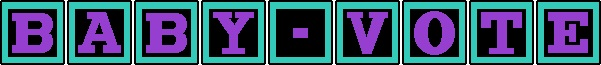
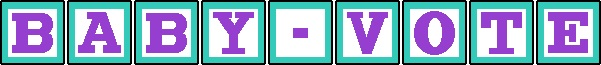
Pulled in the header and font colors from daniel's work Working on top 10 list now

diff --git a/coming.html b/coming.html
@@ -14,11 +14,11 @@
 </header>
 
 <nav>
-<a href="./index.php"><strong>Home</strong></a> | 
-<a href="./submit.html"><strong>Submit Baby Pictures</strong></a> |
-<a href="./coming.html"><strong>Beautiful Babies</strong></a> |
-<a href="./coming.html"><strong>Baby Products</strong></a> |
-<a href="./coming.html"><strong>About Baby Vote</strong></a>
+<a href="./index.php"><strong><span>Home</span></strong></a> | 
+<a href="./submit.html"><strong><span>Submit Baby Pictures</span></strong></a> |
+<a href="./coming.html"><strong><span>Beautiful Babies</span></strong></a> |
+<a href="./coming.html"><strong><span>Baby Products</span></strong></a> |
+<a href="./coming.html"><strong><span>About Baby Vote</span></strong></a>
 </nav>
 
 <!-- Content Begins Here -->

diff --git a/submit.html b/submit.html
@@ -18,11 +18,11 @@
 </header>
 
 <nav>
-<a href="./index.php"><strong>Home</strong></a> | 
-<a href="./submit.html"><strong>Submit Baby Pictures</strong></a> |
-<a href="./coming.html"><strong>Beautiful Babies</strong></a> |
-<a href="./coming.html"><strong>Baby Products</strong></a> |
-<a href="./coming.html"><strong>About Baby Vote</strong></a>
+<a href="./index.php"><strong><span>Home</span></strong></a> | 
+<a href="./submit.html"><strong><span>Submit Baby Pictures</span></strong></a> |
+<a href="./coming.html"><strong><span>Beautiful Babies</span></strong></a> |
+<a href="./coming.html"><strong><span>Baby Products</span></strong></a> |
+<a href="./coming.html"><strong><span>About Baby Vote</span></strong></a>
 </nav>
 
 

diff --git a/style.css b/style.css
@@ -24,6 +24,10 @@ nav a{
     color: rgb(52,202,186);
 }
 
+nav a span{
+    color: #953ED0;
+}
+
 section.content{
     margin: 0px auto;
     width: 940px;

diff --git a/beautiful.php b/beautiful.php
@@ -6,72 +6,7 @@
     <META name="keywords" content="baby,baby war,babies,best,cute,cutest,cuter,choose,cute baby,cute babies,smiling babies,smiling baby,happy baby" />
     <title>Baby War - Vote for the cutest baby!</title>
     <link rel="stylesheet" type="text/css" href="style.css" charset="utf-8"/>
-    
-    <script type=text/javascript>
 
-function voted(event){
-
-    // Ajax stuff
-	var ajaxRequest = new XMLHttpRequest;  // The variable that makes Ajax possible!
-	
-	ajaxRequest.onreadystatechange = function(){
-	    if(ajaxRequest.readyState == 4){
-	    	//document.getElementById('winner').appendChild(ajaxRequest.responseText);
-	    	var response = ajaxRequest.responseText;
-	    	
-	    	// Get everything
-	    	var img1 = response.split("@@")[0];
-	    	var img2 = response.split("@@")[1];
-	    	var w_vote_count = response.split("@@")[2];
-	    	var w_election_count = response.split("@@")[3];
-	    	var l_vote_count = response.split("@@")[4];
-	    	var l_election_count = response.split("@@")[5];
-	    	
-	    	// Set new images for election
-	    	document.getElementById('img1').src = "./pics/" + img1;
-	    	document.getElementById('img2').src = "./pics/" + img2;
-	    	
-	    	// Set winner
-	    	document.getElementById('winner_votes').innerHTML = "Votes : " + w_vote_count;
-	    	var percent = Math.round((w_vote_count / w_election_count) * 100);
-	    	document.getElementById('winner_percent').innerHTML = "Win Rate : " + percent + "%";
-	    	
-	    	// Set loser
-	    	document.getElementById('loser_votes').innerHTML = "Votes : " + l_vote_count;
-	    	var percent = Math.round((l_vote_count / l_election_count) * 100);
-	    	document.getElementById('loser_percent').innerHTML = "Win Rate : " + percent + "%";
-	    }
-    }	
-	
-	// Winner
-	// Just some regex no big deal really
-	var pathExtract = /^[a-z]+:\/\/\/?[^\/]+(\/[^?]*)/i;
-	var winner = (pathExtract.exec(event.target.src))[1].slice(1);
-	
-	// Loser
-	if (event.target.id === 'img1')	{ var loser_id = 'img2'; }
-	else { var loser_id = 'img1'; }
-	var loser = document.getElementById(loser_id).src
-	loser = pathExtract.exec(loser)[1].slice(1);
-	
-	// Set winner / loser source and href
-    document.getElementById('winner').src = winner;
-    document.getElementById('loser').src = loser;
-    
-	var id1 = winner.match(/(\d+)$/)[1];
-    var id2 = loser.match(/(\d+)$/)[1];
-    
-	document.getElementById('link1').href = "http://baby-war.99k.org/individual.php?id=" + id1
-    document.getElementById('link2').href = "http://baby-war.99k.org/individual.php?id=" + id2
-    
-    
-    // Probably not the best solution dawg
-	var query = "?winner=" + winner.split("/")[1] + "&loser=" + loser.split("/")[1];
-	ajaxRequest.open("GET", "vote.php" + query, true);
-	ajaxRequest.send(null);
-
-}
-    </script>  
 </head>
 
 <!-- Head ends / Body begins -->

diff --git a/individual.php b/individual.php
@@ -14,11 +14,11 @@
 </header>
 
 <nav>
-<a href="./index.php"><strong>Home</strong></a> | 
-<a href="./submit.html"><strong>Submit Baby Pictures</strong></a> |
-<a href="./coming.html"><strong>Beautiful Babies</strong></a> |
-<a href="./coming.html"><strong>Baby Products</strong></a> |
-<a href="./coming.html"><strong>About Baby Vote</strong></a>
+<a href="./index.php"><strong><span>Home</span></strong></a> | 
+<a href="./submit.html"><strong><span>Submit Baby Pictures</span></strong></a> |
+<a href="./coming.html"><strong><span>Beautiful Babies</span></strong></a> |
+<a href="./coming.html"><strong><span>Baby Products</span></strong></a> |
+<a href="./coming.html"><strong><span>About Baby Vote</span></strong></a>
 </nav>
 
 <!-- Content Begins Here -->

diff --git a/submit_image.php b/submit_image.php
@@ -11,11 +11,11 @@
 </header>
 
 <nav>
-<a href="./index.php"><strong>Home</strong></a> | 
-<a href="./submit.html"><strong>Submit Baby Pictures</strong></a> |
-<a href="./coming.html"><strong>Beautiful Babies</strong></a> |
-<a href="./coming.html"><strong>Baby Products</strong></a> |
-<a href="./coming.html"><strong>About Baby Vote</strong></a>
+<a href="./index.php"><strong><span>Home</span></strong></a> | 
+<a href="./submit.html"><strong><span>Submit Baby Pictures</span></strong></a> |
+<a href="./coming.html"><strong><span>Beautiful Babies</span></strong></a> |
+<a href="./coming.html"><strong><span>Baby Products</span></strong></a> |
+<a href="./coming.html"><strong><span>About Baby Vote</span></strong></a>
 </nav>
 
 <h1>Success!</h1>

diff --git a/ind_vote.php b/ind_vote.php
@@ -14,8 +14,11 @@
 </header>
 
 <nav>
-<a href="./index.php"><strong>Home</strong></a> | 
-<a href="./submit.html"><strong>Submit Baby Pictures</strong></a>
+<a href="./index.php"><strong><span>Home</span></strong></a> | 
+<a href="./submit.html"><strong><span>Submit Baby Pictures</span></strong></a> |
+<a href="./coming.html"><strong><span>Beautiful Babies</span></strong></a> |
+<a href="./coming.html"><strong><span>Baby Products</span></strong></a> |
+<a href="./coming.html"><strong><span>About Baby Vote</span></strong></a>
 </nav>
 
 <!-- Content Begins Here -->
